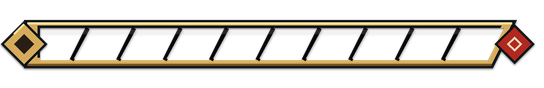
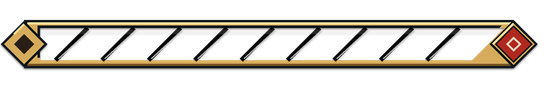
Seat the enemy bar's end gem flush on a 45-degree cut
The bar's slanted right end ran straight into the ruby diamond, which didn't
read as one piece. The slant is now 45 degrees, so the window's cut is parallel
to the diamond's faces, and the end gem is as tall as the bar and set in the
rim's metal with its upper-left face flush along the cut: the bar ends in the
gem's point, with a metal wedge under it. Jade and gold use it; far keeps its
crimson gem drawn out into a talisman tip in place of the separate blade;
bronze keeps a bare (now 45-degree) end. Divisions, fill, ghost and sheen
follow the new slant. Nothing else changed (strip, aura and skull are
byte-identical).

New ids are in art/ui/assets.json, EnemyBars STYLES (rims) and every HealthBar
in assets/Enemies.rbxm (back/fill/trail/sheen), rewritten through a rojo
rbxm->rbxmx->rbxm round trip that changes only those 60 image ids.

The hud-compact branch hasn't landed and went rectangular with centred gems,
so there was no end shape to match.

Untested: previewed in edit view only (sandbox, bronze and jade in Studio,
all four tiers in a local composite); not in play or on a phone. While
draining, the fill's leading edge is the Fill frame's straight clip, as before.

Test build: overhead enemy bars on each tier (jade/gold gem end, far tip,
bronze end) at full health and while draining.

Changed region(s): [[0.0938, 0.3182, 0.4375, 0.7045], [0.4375, 0.3182, 0.7812, 0.7045], [0.7812, 0.2273, 1.0, 0.7955]]

diff --git a/art/ui/draw_ui.py b/art/ui/draw_ui.py
@@ -1641,8 +1641,10 @@ def minigame_art():
 # ---------------------------------------------------------------- enemy bars
 
 # The overhead bar on regular demon beasts (bosses keep Play.BossBar), Dead Cells
-# style: a dark nameplate strip over a long thin bar with a slanted right end,
+# style: a dark nameplate strip over a long thin bar with a 45-degree right end,
 # cut into ten talisman slips (one per 10% of health, like the player's vitals).
+# On tiers with a seal the end is capped by a diamond gem whose upper-left face
+# lies flush along the window's slant, so the bar ends in the gem's point.
 # Every piece is drawn at its display size x EB_R and shown with ScaleType Stretch
 # at a fixed pixel size in the BillboardGui, so nothing is 9-sliced.
 # Geometry in display px (the BillboardGui lays its frames on these numbers):
@@ -1650,7 +1652,8 @@ EB_R = 4  # image px per display px
 EB = {
     "bar": (136, 22),  # bar art canvas: Back, Rim and Aura all cover it
     "window": (10, 7, 126, 15),  # fill window bbox: Fill / Trail clip frames
-    "slant": 4,  # the right end leans back this far over the window's height
+    "slant": 8,  # the right end leans back this far over the window's height (45 degrees)
+    "cap": 6.0,  # end gem's outer radius: as tall as the bar, flush on the slant
     "outer": (6, 5, 17),  # rim outer edge: left x, top y, bottom y
     "segments": 10,
     "strip": (112, 15),  # nameplate strip
@@ -1682,15 +1685,30 @@ def _eb_finish(img, name):
     print("wrote", name, img.size)
 
 
-def _eb_poly(inset):
-    """The bar body, `inset` display px in from the rim's outer edge: square
-    left end, right end slanted back toward the bottom."""
+def _eb_cap():
+    """Centre x, centre y and outer radius of the end gem: its upper-left face
+    sits on the window's slant (k is 1, so the faces are parallel)."""
     lx, ty, by = EB["outer"]
     wx0, wy0, wx1, wy1 = EB["window"]
-    k = EB["slant"] / (wy1 - wy0)  # x lean per px of height
-    rx_top = wx1 + (wy0 - ty) * k + 2.2  # outer right edge, through the rim
+    cy, r = (ty + by) / 2, EB["cap"]
+    return wx1 + wy0 + 0.4 - cy + r, cy, r
+
+
+def _eb_poly(inset, capped=False):
+    """The bar body, `inset` display px in from the rim's outer edge: square
+    left end, right end slanted back toward the bottom (the band as thick across
+    the slant as along the top). Capped bodies run square to the gem's centre
+    instead; the gem covers that end."""
+    lx, ty, by = EB["outer"]
+    wx0, wy0, wx1, wy1 = EB["window"]
     a, b = ty + inset, by - inset
-    rt = rx_top - inset - (inset * k)
+    if capped:
+        gx = _eb_cap()[0]
+        return [(_eb(lx + inset), _eb(a)), (_eb(gx), _eb(a)), (_eb(gx), _eb(b)), (_eb(lx + inset), _eb(b))]
+    k = EB["slant"] / (wy1 - wy0)  # x lean per px of height
+    band = (wy0 - ty) * math.sqrt(1 + k * k)  # top band's thickness, across the slant
+    rx_top = wx1 + (wy0 - ty) * k + band  # outer right edge, through the rim
+    rt = rx_top - inset * (math.sqrt(1 + k * k) + k)
     return [(_eb(lx + inset), _eb(a)), (_eb(rt), _eb(a)), (_eb(rt - (b - a) * k), _eb(b)), (_eb(lx + inset), _eb(b))]
 
 
@@ -1707,8 +1725,11 @@ def eb_back():
     stretched at 136x22."""
     img = _eb_canvas(*EB["bar"])
     d = ImageDraw.Draw(img)
-    d.polygon(_eb_poly(0), fill=(8, 8, 10, 235))
-    wx0, wy0, _, _ = EB["window"]
+    # only as far right as every tier's rim covers it (a capped end is inside the gem)
+    lx, ty, by = EB["outer"]
+    wx0, wy0, wx1, _ = EB["window"]
+    c = wx1 + wy0 + 0.8
+    d.polygon([(_eb(lx), _eb(ty)), (_eb(c - ty), _eb(ty)), (_eb(c - by), _eb(by)), (_eb(lx), _eb(by))], fill=(8, 8, 10, 235))
     d.polygon(_eb_window_poly(wx0, wy0), fill=(30, 14, 16, 235))
     # a faint inner shadow along the top of the window
     d.line([(_eb(wx0), _eb(wy0) + _eb(0.6)), (_eb(EB["window"][2]), _eb(wy0) + _eb(0.6))], fill=(0, 0, 0, 200), width=_eb(1.2))
@@ -1760,20 +1781,32 @@ def eb_sheen():
     _eb_finish(img, "enemybar_sheen.png")
 
 
-def _eb_seal(d, cx, cy, r, face, edge):
-    """A small diamond seal stamp on the bar's tip."""
-    d.polygon([(_eb(cx), _eb(cy - r - 0.8)), (_eb(cx + r + 0.8), _eb(cy)), (_eb(cx), _eb(cy + r + 0.8)), (_eb(cx - r - 0.8), _eb(cy))], fill=INK)
-    d.polygon([(_eb(cx), _eb(cy - r)), (_eb(cx + r), _eb(cy)), (_eb(cx), _eb(cy + r)), (_eb(cx - r), _eb(cy))], fill=face)
+def _eb_seal(d, metal, hi, face, edge, tip=0.0):
+    """The end gem: a diamond as tall as the bar, set in the rim's metal, its
+    upper-left face flush on the window's slant. `tip` pulls the right point out
+    further (the far tier's talisman tip)."""
+    cx, cy, R = _eb_cap()
+
+    def dia(r, t=0.0):
+        return [(_eb(cx), _eb(cy - r)), (_eb(cx + r + t), _eb(cy)), (_eb(cx), _eb(cy + r)), (_eb(cx - r), _eb(cy))]
+
+    d.polygon(dia(R, tip), fill=INK)
+    d.polygon(dia(R - 0.8, tip), fill=metal)
+    m = dia(R - 0.8, tip)
+    d.line([m[3], m[0]], fill=hi, width=_eb(0.5))
+    r = R - 1.8
+    d.polygon(dia(r + 0.5, tip * 0.6), fill=INK)
+    d.polygon(dia(r, tip * 0.6), fill=face)
     q = r * 0.45
-    d.polygon([(_eb(cx), _eb(cy - q)), (_eb(cx + q), _eb(cy)), (_eb(cx), _eb(cy + q)), (_eb(cx - q), _eb(cy))], outline=edge, width=_eb(0.5))
+    d.polygon(dia(q), outline=edge, width=_eb(0.5))
 
 
 def eb_rim(tier):
     """The frame over the fill for one danger tier: ink outline, a metal band
     with a lit top edge, nine slanted talisman divisions across the window and
-    the tier's end caps (jade: a vermilion seal on the tip; gold: seal plus a
-    lozenge on the left end; far: a violet lozenge and a long pointed talisman
-    tip). 544x88, stretched at 136x22."""
+    the tier's end caps (bronze: a bare slanted end; jade: a vermilion gem
+    capping the end; gold: that gem plus a lozenge on the left end; far: a
+    violet lozenge and a crimson gem drawn out into a talisman tip). 544x88, stretched at 136x22."""
     t = EB_TIERS[tier]
     metal, hi, lo = t["metal"] + (255,), t["hi"] + (255,), t["lo"] + (255,)
     img = _eb_canvas(*EB["bar"])
@@ -1782,21 +1815,15 @@ def eb_rim(tier):
     wx0, wy0, wx1, wy1 = EB["window"]
     cy = (ty + by) / 2
 
-    if tier == "far":
-        # long talisman tip: a pointed blade leaning off the right end
-        tip = [(_eb(126.5), _eb(ty - 0.5)), (_eb(135.5), _eb(cy - 1)), (_eb(122), _eb(by + 0.5))]
-        d.polygon(tip, fill=INK)
-        tip2 = [(_eb(127.4), _eb(ty + 1)), (_eb(133.6), _eb(cy - 1)), (_eb(123.6), _eb(by - 1))]
-        d.polygon(tip2, fill=metal)
-        d.line([tip2[0], tip2[1]], fill=hi, width=_eb(0.6))
+    capped = tier != "bronze"
 
     # body ring: ink, metal, then cut the window back out
     ring = _eb_canvas(*EB["bar"])
     rd = ImageDraw.Draw(ring)
-    rd.polygon(_eb_poly(0), fill=INK)
-    rd.polygon(_eb_poly(0.8), fill=metal)
+    rd.polygon(_eb_poly(0, capped), fill=INK)
+    rd.polygon(_eb_poly(0.8, capped), fill=metal)
     # lit top edge and shaded bottom edge of the band
-    p = _eb_poly(0.8)
+    p = _eb_poly(0.8, capped)
     rd.line([p[0], p[1]], fill=hi, width=_eb(0.55))
     rd.line([p[3], p[2]], fill=lo, width=_eb(0.55))
     rd.polygon(_eb_window_poly(wx0 - 0.6, wy0 - 0.6), fill=INK)
@@ -1825,7 +1852,7 @@ def eb_rim(tier):
     img.alpha_composite(gl)
 
     if tier in ("jade", "gold"):
-        _eb_seal(d, 128.6, cy, 4.2, (176, 40, 30, 255), (246, 226, 196, 230))
+        _eb_seal(d, metal, hi, (176, 40, 30, 255), (246, 226, 196, 230))
     if tier in ("gold", "far"):
         face = (30, 18, 40, 255) if tier == "far" else (40, 30, 22, 255)
         r = 5.0
@@ -1835,7 +1862,7 @@ def eb_rim(tier):
         d.polygon([(_eb(lx), _eb(cy - q)), (_eb(lx + q), _eb(cy)), (_eb(lx), _eb(cy + q)), (_eb(lx - q), _eb(cy))], fill=face)
         d.line([(_eb(lx - r * 0.5), _eb(cy - r * 0.5)), (_eb(lx), _eb(cy - r))], fill=hi, width=_eb(0.5))
     if tier == "far":
-        _eb_seal(d, 126.2, cy - 0.6, 2.6, (150, 26, 52, 255), (255, 210, 230, 220))
+        _eb_seal(d, metal, hi, (150, 26, 52, 255), (255, 210, 230, 220), tip=1.4)
     _eb_finish(shadow_under(img, blur=1, offset=1, alpha=140), f"enemybar_rim_{tier}.png")
 
 

diff --git a/docs/systems/enemies.md b/docs/systems/enemies.md
@@ -127,12 +127,20 @@ player in a session sees the same beasts and nothing a client does can change on
 ### Overhead health bars (EnemyBars)
 Regular beasts carry a `HealthBar` BillboardGui (Dead Cells layout in the
 game's lacquer-and-seal dress): a dark ink nameplate strip with the beast's name
-and realm tag (`QC 4`), sitting on a long thin bar with a slanted right end. The
-fill is blood-qi crimson, cut into ten slanted talisman slips (one per 10% of
+and realm tag (`QC 4`), sitting on a long thin bar whose right end is cut at 45 degrees. The
+fill is blood-qi crimson, cut into ten talisman slips at the same 45 degrees (one per 10% of
 health, the same count as the player's vitals bar; the divisions are drawn into
 the rim art, so the slip size never depends on the beast's max health). A hit
 drops the fill at once and a pale gold ghost (`Trail`) drains after it. The bar
-shows while the beast is locked or for 8 s after it's hurt.
+shows while the beast is locked or for 8 s after it's hurt. The fill's slant
+shows at full health; while draining, its leading edge is the `Fill` frame's
+straight clip.
+
+On tiers with an end gem (jade, gold, far) the gem is as tall as the bar and
+set in the rim's metal, its upper-left face flush along the window's slant, so
+the bar ends in the gem's point rather than running into it (user, 2026-10-23:
+the old slant ran straight into the gem). The metal wedge under the gem fills
+the rest of the end. Bronze keeps a bare slanted end.
 
 Its dressing says how dangerous the beast is **to you**: the gap between the
 beast's realm and the local player's (`Realms.index`, in ladder stages) picks a
@@ -142,9 +150,9 @@ a breakthrough makes the same beast look tamer.
 | Tier | Gap (default) | Look |
 |---|---|---|
 | below | <= -2 | muted bronze frame, grey tag |
-| even | -1 to +1 | jade frame, vermilion seal on the tip |
-| above | +2 to +3 | gold frame, seal tip and lozenge cap, omen line |
-| far | +4 to +5 | violet frame, long talisman tip, pulsing qi aura, sheen sweep, omen line |
+| even | -1 to +1 | jade frame, vermilion gem capping the end |
+| above | +2 to +3 | gold frame, gem end and lozenge cap on the left, omen line |
+| far | +4 to +5 | violet frame, crimson gem drawn out into a talisman tip, pulsing qi aura, sheen sweep, omen line |
 | deadly | >= +6 | no name, realm or health: a pulsing cracked skull seal and an omen, shown whenever the beast is in range (90 studs) |
 
 Omen lines are short xianxia warnings under the bar (under the skull for
@@ -153,7 +161,8 @@ live in `STYLES` in `EnemyBars.luau` (keep lines under ~24 characters). Bosses
 skip all of this: their overhead bar stays off and the boss you fight gets the
 themed screen bar instead (`BossBars.luau`, see [boss bar](../ui/boss-bars.md)), dressed with the
 same tiers and per-boss omen pools. Art: `art/ui/draw_ui.py enemybar` (`EB` geometry, `EB_TIERS`
-colours), ids in `art/ui/assets.json` (`enemybar_*`).
+colours), ids in `art/ui/assets.json` (`enemybar_*`); rims are set from `STYLES`, while
+Back, Fill, Trail and Sheen ids live in every `HealthBar` in `assets/Enemies.rbxm`.
 
 ### Adding a beast's effects (EnemyFX)
 Put `src/client/EnemyFX/<EnemyType>.luau` returning any of `windup`, `strike`,
